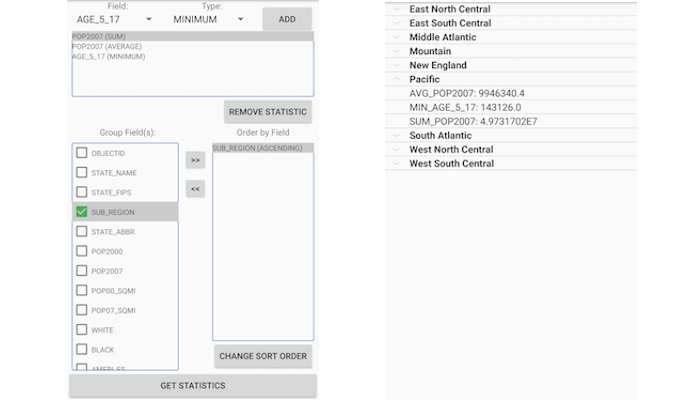
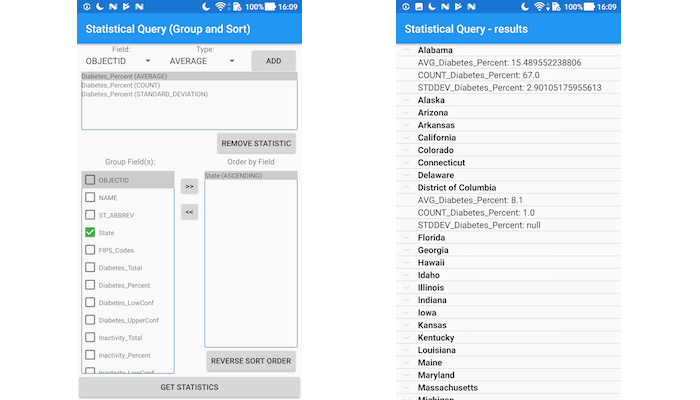
change data and defaults (#538)

Changed region(s): [[0.09, 0.0, 0.45, 1.0], [0.54, 0.0, 0.9, 1.0]]

diff --git a/java/statistical-query-group-and-sort/src/main/java/com/esri/arcgisruntime/sample/statisticalquerygroupandsort/MainActivity.java b/java/statistical-query-group-and-sort/src/main/java/com/esri/arcgisruntime/sample/statisticalquerygroupandsort/MainActivity.java
@@ -60,14 +60,7 @@ public class MainActivity extends AppCompatActivity {
   private static final String TAG = MainActivity.class.getSimpleName();
 
   private ServiceFeatureTable mUsStatesFeatureTable;
-  private Button mAddButton;
-  private Button mRemoveStatisticButton;
-  private Button mMoveRightButton;
-  private Button mMoveLeftButton;
-  private Button mChangeSortOrder;
-  private Button mGetStatisticsButton;
-  private Spinner mFieldSpinner;
-  private Spinner mTypeSpinner;
+
   private RecyclerView mStatisticsDefinitionRecyclerView;
   private RecyclerView mGroupRecyclerView;
   private RecyclerView mOrderByRecyclerView;
@@ -81,40 +74,6 @@ public class MainActivity extends AppCompatActivity {
   private List<String> mOrderByList;
   private List<String> mFieldNameList;
 
-  /**
-   * Helper method to get the sort order from a string containing a field and sort order.
-   *
-   * @param fieldAndOrder string from recycler view
-   * @return SortOrder (either ASCENDING or DESCENDING)
-   */
-  private static QueryParameters.SortOrder getSortOrderFrom(String fieldAndOrder) {
-    String orderString = fieldAndOrder.substring(fieldAndOrder.indexOf('(') + 1, fieldAndOrder.indexOf(')'));
-    QueryParameters.SortOrder sortOrder;
-    switch (orderString) {
-      case "DESCENDING":
-        sortOrder = QueryParameters.SortOrder.DESCENDING;
-        break;
-      case "ASCENDING":
-        sortOrder = QueryParameters.SortOrder.ASCENDING;
-        break;
-      default:
-        Log.e(TAG, "Invalid sort order: " + orderString);
-        sortOrder = null;
-        break;
-    }
-    return sortOrder;
-  }
-
-  /**
-   * Helper method to get a field from a string.
-   *
-   * @param fieldAndOrder string from recycler view
-   * @return field as a string
-   */
-  private static String getFieldFrom(String fieldAndOrder) {
-    return fieldAndOrder.substring(0, fieldAndOrder.indexOf(' '));
-  }
-
   @Override
   protected void onCreate(Bundle savedInstanceState) {
     super.onCreate(savedInstanceState);
@@ -123,7 +82,7 @@ public class MainActivity extends AppCompatActivity {
     inflateUiViews();
 
     // create US states feature table
-    mUsStatesFeatureTable = new ServiceFeatureTable(getString(R.string.us_states_census));
+    mUsStatesFeatureTable = new ServiceFeatureTable(getString(R.string.obesity_inactivity_diabetes_feature_service));
 
     // collection of (user-defined) statistics to use in the query
     mStatisticDefinitionList = new ArrayList<>();
@@ -142,33 +101,42 @@ public class MainActivity extends AppCompatActivity {
       createRecyclerViews();
 
       // fill the field spinner with field names
-      mFieldSpinner.setAdapter(new ArrayAdapter<>(this, android.R.layout.simple_spinner_item, mFieldNameList));
+      Spinner fieldSpinner = findViewById(R.id.fieldSpinner);
+      fieldSpinner.setAdapter(new ArrayAdapter<>(this, android.R.layout.simple_spinner_item, mFieldNameList));
 
       // fill the type spinner with StatisticType values
-      mTypeSpinner.setAdapter(new ArrayAdapter<>(this, android.R.layout.simple_spinner_item, StatisticType.values()));
+      Spinner typeSpinner = findViewById(R.id.typeSpinner);
+      typeSpinner.setAdapter(new ArrayAdapter<>(this, android.R.layout.simple_spinner_item, StatisticType.values()));
 
       // add default search values
-      addStatistic("POP2000", StatisticType.AVERAGE);
-      addStatistic("POP00_SQMI", StatisticType.AVERAGE);
-      mGroupAdapter.getCheckedList()[3] = true; // set check to true for sub_region
-      addFieldToOrderBy("SUB_REGION");
+      addStatistic("Diabetes_Percent", StatisticType.AVERAGE);
+      addStatistic("Diabetes_Percent", StatisticType.COUNT);
+      addStatistic("Diabetes_Percent", StatisticType.STANDARD_DEVIATION);
+      mGroupAdapter.getCheckedList()[3] = true;
+      addFieldToOrderBy("State");
 
       // wire up buttons to work only after the US states feature table has loaded
-      mAddButton.setOnClickListener(v -> {
+      Button addButton = findViewById(R.id.addButton);
+      addButton.setOnClickListener(v -> {
         // get field and stat type from the respective spinners
-        String fieldName = mFieldSpinner.getSelectedItem().toString();
-        StatisticType statType = StatisticType.valueOf(mTypeSpinner.getSelectedItem().toString());
+        String fieldName = fieldSpinner.getSelectedItem().toString();
+        StatisticType statType = StatisticType.valueOf(typeSpinner.getSelectedItem().toString());
         addStatistic(fieldName, statType);
       });
-      mRemoveStatisticButton.setOnClickListener(view -> removeStatistic());
-      mMoveRightButton.setOnClickListener(view -> {
+      Button removeStatisticButton = findViewById(R.id.removeStatisticButton);
+      removeStatisticButton.setOnClickListener(view -> removeStatistic());
+      Button moveRightButton = findViewById(R.id.moveRightButton);
+      moveRightButton.setOnClickListener(view -> {
         // get the selected field from the group recycler view
         String field = mGroupAdapter.getItem(mGroupAdapter.getSelectedPosition());
         addFieldToOrderBy(field);
       });
-      mMoveLeftButton.setOnClickListener(view -> removeFieldFromOrderBy());
-      mChangeSortOrder.setOnClickListener(view -> changeSortOrder());
-      mGetStatisticsButton.setOnClickListener(view -> {
+      Button moveLeftButton = findViewById(R.id.moveLeftButton);
+      moveLeftButton.setOnClickListener(view -> removeFieldFromOrderBy());
+      Button changeSortOrderButton = findViewById(R.id.changeSortOrderButton);
+      changeSortOrderButton.setOnClickListener(view -> changeSortOrder());
+      Button getStatisticsButton = findViewById(R.id.getStatisticsButton);
+      getStatisticsButton.setOnClickListener(view -> {
         // verify that there is at least one statistic definition in the statistic definition list before query
         if (!mStatisticDefinitionList.isEmpty()) {
           executeStatisticsQuery();
@@ -191,6 +159,9 @@ public class MainActivity extends AppCompatActivity {
 
     // create the statistics query parameters, pass in the list of statistic definitions
     StatisticsQueryParameters statQueryParams = new StatisticsQueryParameters(mStatisticDefinitionList);
+
+    // ignore counties with missing data
+    statQueryParams.setWhereClause("\"State\" IS NOT NULL");
 
     // specify the fields to group by (if any)
     List<String> groupList = new ArrayList<>();
@@ -377,14 +348,6 @@ public class MainActivity extends AppCompatActivity {
    * Inflate all views in the user interface.
    */
   private void inflateUiViews() {
-    mAddButton = findViewById(R.id.addButton);
-    mRemoveStatisticButton = findViewById(R.id.removeStatisticButton);
-    mMoveRightButton = findViewById(R.id.moveRightButton);
-    mMoveLeftButton = findViewById(R.id.moveLeftButton);
-    mChangeSortOrder = findViewById(R.id.changeSortOrderButton);
-    mGetStatisticsButton = findViewById(R.id.getStatisticsButton);
-    mFieldSpinner = findViewById(R.id.fieldSpinner);
-    mTypeSpinner = findViewById(R.id.typeSpinner);
     mStatisticsDefinitionRecyclerView = findViewById(R.id.fieldTypeRecyclerView);
     mGroupRecyclerView = findViewById(R.id.groupFieldRecyclerView);
     mOrderByRecyclerView = findViewById(R.id.orderFieldRecyclerView);
@@ -433,5 +396,39 @@ public class MainActivity extends AppCompatActivity {
   @Override protected void onPause() {
     super.onPause();
     mQueryExecutingAlert.dismiss();
+  }
+
+  /**
+   * Helper method to get the sort order from a string containing a field and sort order.
+   *
+   * @param fieldAndOrder string from recycler view
+   * @return SortOrder (either ASCENDING or DESCENDING)
+   */
+  private static QueryParameters.SortOrder getSortOrderFrom(String fieldAndOrder) {
+    String orderString = fieldAndOrder.substring(fieldAndOrder.indexOf('(') + 1, fieldAndOrder.indexOf(')'));
+    QueryParameters.SortOrder sortOrder;
+    switch (orderString) {
+      case "DESCENDING":
+        sortOrder = QueryParameters.SortOrder.DESCENDING;
+        break;
+      case "ASCENDING":
+        sortOrder = QueryParameters.SortOrder.ASCENDING;
+        break;
+      default:
+        Log.e(TAG, "Invalid sort order: " + orderString);
+        sortOrder = null;
+        break;
+    }
+    return sortOrder;
+  }
+
+  /**
+   * Helper method to get a field from a string.
+   *
+   * @param fieldAndOrder string from recycler view
+   * @return field as a string
+   */
+  private static String getFieldFrom(String fieldAndOrder) {
+    return fieldAndOrder.substring(0, fieldAndOrder.indexOf(' '));
   }
 }
